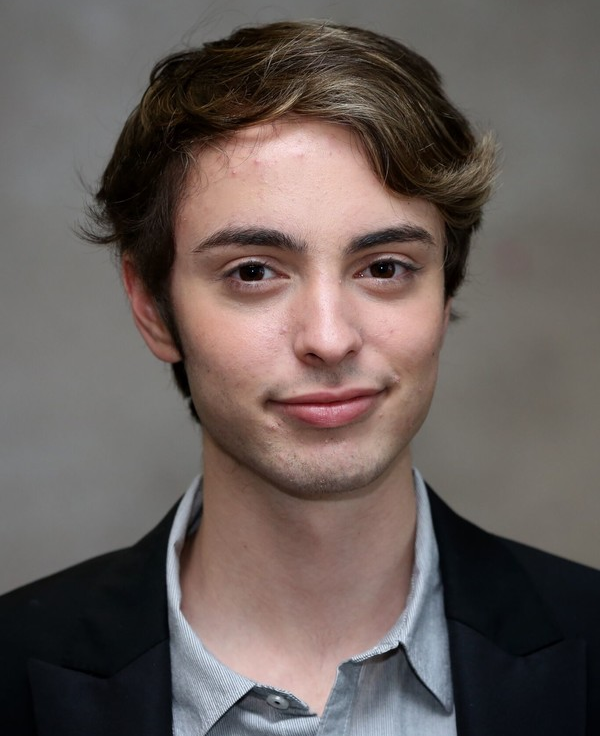
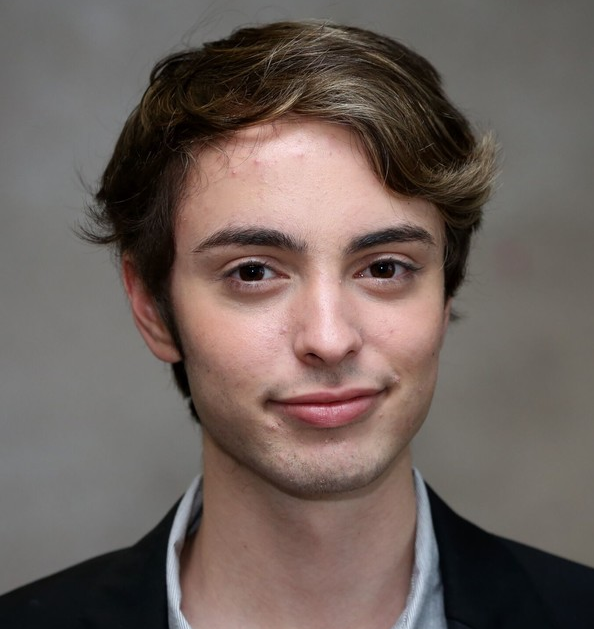
Resize John's headshot

diff --git a/what-is-ubi/why-ubi/index.md b/what-is-ubi/why-ubi/index.md
@@ -17,7 +17,7 @@ subclass: 'post page'
 The decline of poverty has been sluggish. A sufficiently generous UBI could end it overnight.
 <figure>
 <img src="{{site.baseurl}}assets/images/census-bureau-2017.png" style="max-width: 45%; margin-bottom:0;">
-<figcaption style="text-align:center; font-size:1vw;">Source: <a href="https://www.census.gov/content/dam/Census/library/publications/2018/demo/p60-265.pdf" target="_blank">Census Bureau (2017)</a></figcaption>
+<figcaption style="text-align:center; font-size:1vw;">Source: <a href="https://www.census.gov/content/dam/Census/library/publications/2018/demo/p60-265.pdf" target="_blank">US Census Bureau (2017)</a></figcaption>
 </figure>
 
 <h6>Runs efficiently</h6>
